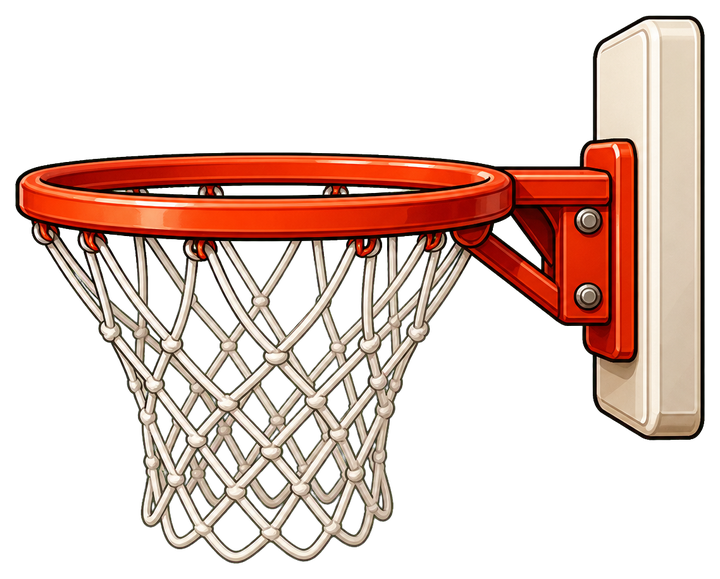
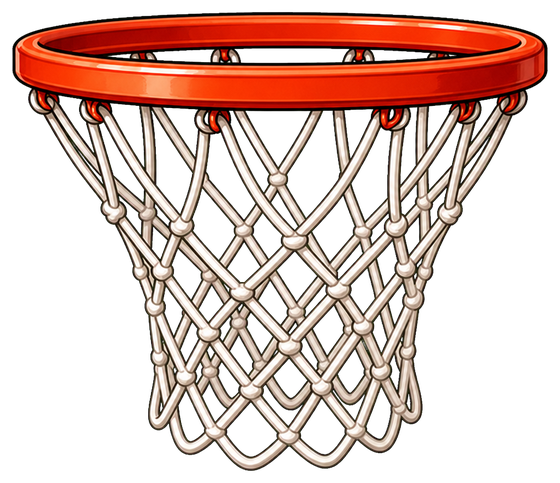
Polish Hoop Flight scoring

diff --git a/src/games/runtime/controllers.ts b/src/games/runtime/controllers.ts
@@ -53,7 +53,8 @@ abstract class BaseController implements GameController {
   }
 }
 
-type Hoop = { x: number; y: number; passed: boolean; pulse: number }
+type Hoop = { x: number; y: number; passed: boolean; pulse: number; netSwing?: number; netVelocity?: number }
+type HoopScoreEffect = { x: number; y: number; life: number; label: string; clean: boolean; streak: number }
 
 class HoopFlightController extends BaseController {
   private ball = { x: 110, y: 400, vx: 0, vy: 0, r: 20, rotation: 0, kick: 0, collisionCooldown: 0 }
@@ -61,11 +62,15 @@ class HoopFlightController extends BaseController {
   private speed = 138
   private autoClock = 0
   private readonly hoopImage: HTMLImageElement
+  private cleanStreak = 0
+  private scoreEffects: HoopScoreEffect[] = []
+  private scoreFlash = 0
+  private fireBurst = 0
 
   reset() {
     this.ball = { x: this.w * .27, y: this.h * .48, vx: 0, vy: 50, r: 20, rotation: -.15, kick: 0, collisionCooldown: 0 }
-    this.speed = 138; this.autoClock = 0
-    this.hoops = [0, 1, 2].map((i) => ({ x: this.w * .86 + i * 255, y: random(this.h * .3, this.h * .67), passed: false, pulse: 0 }))
+    this.speed = 138; this.autoClock = 0; this.cleanStreak = 0; this.scoreEffects = []; this.scoreFlash = 0; this.fireBurst = 0
+    this.hoops = [0, 1, 2].map((i) => ({ x: this.w * .86 + i * 255, y: random(this.h * .3, this.h * .67), passed: false, pulse: 0, netSwing: 0, netVelocity: 0 }))
   }
   constructor(theme: GameTheme, options: ControllerOptions) {
     super(theme, options)
@@ -95,26 +100,42 @@ class HoopFlightController extends BaseController {
     this.ball.y += this.ball.vy * dt
     this.ball.kick = Math.max(0, this.ball.kick - dt * 7.5)
     this.ball.collisionCooldown = Math.max(0, this.ball.collisionCooldown - dt)
+    this.scoreFlash = Math.max(0, this.scoreFlash - dt * 2.8)
+    this.fireBurst = Math.max(0, this.fireBurst - dt * 1.45)
+    this.scoreEffects.forEach((effect) => { effect.life -= dt; effect.x -= this.speed * dt })
+    this.scoreEffects = this.scoreEffects.filter((effect) => effect.life > 0)
     this.ball.rotation += dt * (2.4 + Math.abs(this.ball.vy) * .002)
     this.speed = Math.min(235, 138 + this.elapsed * 1.65)
     for (const hoop of this.hoops) {
       hoop.x -= this.speed * dt; hoop.pulse = Math.max(0, hoop.pulse - dt)
+      hoop.netVelocity = (hoop.netVelocity ?? 0) - (hoop.netSwing ?? 0) * 48 * dt
+      hoop.netVelocity *= Math.pow(.018, dt)
+      hoop.netSwing = (hoop.netSwing ?? 0) + hoop.netVelocity * dt
       const metrics = this.getHoopMetrics(hoop)
       this.collideWithHoop(metrics)
       const insideOpening = Math.abs(this.ball.x - hoop.x) < metrics.rimHalf - this.ball.r * .42
       if (!hoop.passed && insideOpening && previousY < hoop.y - 3 && this.ball.y >= hoop.y + 9 && this.ball.vy > 0) {
         hoop.passed = true; hoop.pulse = 1
         const clean = Math.abs(this.ball.x - hoop.x) < metrics.rimHalf * .42
-        this.addScore(clean ? (this.score > 1 ? 2 : 1) : 1)
+        this.cleanStreak = clean ? this.cleanStreak + 1 : 0
+        const points = clean ? (this.cleanStreak >= 3 ? 3 : this.cleanStreak === 2 ? 2 : 1) : 1
+        const label = clean ? (this.cleanStreak >= 3 ? `FIRE ×${this.cleanStreak}` : this.cleanStreak === 2 ? 'PERFECT ×2' : 'CLEAN!') : 'SWISH!'
+        this.setScore(this.score + points)
+        this.options.onImpact(clean ? 'perfect' : 'score')
+        hoop.netVelocity = clamp((this.ball.x - hoop.x) * 4.5 + 105, -150, 150)
+        this.scoreEffects.push({ x: hoop.x, y: hoop.y, life: 1, label, clean, streak: this.cleanStreak })
+        this.scoreFlash = clean ? .72 : .38
+        if (this.cleanStreak >= 3) this.fireBurst = 1
       } else if (!hoop.passed && hoop.x + metrics.rimHalf < this.ball.x - this.ball.r) {
         hoop.passed = true
+        this.cleanStreak = 0
       }
       if (insideOpening && this.ball.y > hoop.y + 5 && this.ball.y < hoop.y + metrics.height * .68) {
         this.ball.vx *= Math.pow(.55, dt)
       }
     }
     const last = this.hoops[this.hoops.length - 1]
-    if (last.x < this.w - 180) this.hoops.push({ x: last.x + random(220, 295), y: random(this.h * .25, this.h * .68), passed: false, pulse: 0 })
+    if (last.x < this.w - 180) this.hoops.push({ x: last.x + random(220, 295), y: random(this.h * .25, this.h * .68), passed: false, pulse: 0, netSwing: 0, netVelocity: 0 })
     this.hoops = this.hoops.filter((hoop) => hoop.x > -100)
     if (this.ball.y > this.h - 75 || this.ball.y < 42 || this.ball.x < -45) this.finish()
   }
@@ -127,8 +148,11 @@ class HoopFlightController extends BaseController {
     ctx.fillStyle = '#f2bd3f'; ctx.fillRect(0, this.h - 61, this.w, 61)
     ctx.fillStyle = 'rgba(82,72,54,.3)'; ctx.font = `900 ${Math.min(88, this.w * .2)}px system-ui`; ctx.textAlign = 'center'; ctx.textBaseline = 'middle'; ctx.fillText(String(this.score), this.w * .55, this.h * .52)
     for (const hoop of this.hoops) this.drawHoopLayer(ctx, hoop, false)
-    ctx.save(); ctx.translate(this.ball.x, this.ball.y); ctx.scale(1 + this.ball.kick * .16, 1 - this.ball.kick * .1); drawBasketball(ctx, 0, 0, this.ball.r, this.ball.rotation, this.score >= 4); ctx.restore()
+    ctx.save(); ctx.translate(this.ball.x, this.ball.y); ctx.scale(1 + this.ball.kick * .16, 1 - this.ball.kick * .1); drawBasketball(ctx, 0, 0, this.ball.r, this.ball.rotation, this.cleanStreak >= 3); ctx.restore()
     for (const hoop of this.hoops) this.drawHoopLayer(ctx, hoop, true)
+    this.drawScoreEffects(ctx)
+    if (this.fireBurst > 0) { ctx.strokeStyle = `rgba(255,75,25,${this.fireBurst * .7})`; ctx.lineWidth = 8 + this.fireBurst * 7; ctx.shadowColor = '#ff6a24'; ctx.shadowBlur = 28; ctx.strokeRect(4, 88, this.w - 8, this.h - 164); ctx.shadowBlur = 0 }
+    if (this.scoreFlash > 0) { ctx.fillStyle = `rgba(255,248,170,${this.scoreFlash * .16})`; ctx.fillRect(0, 0, this.w, this.h) }
     drawGameLabel(ctx, 'TAP TO BOUNCE', `${Math.floor(this.elapsed * 10)}m`, this.w, this.h)
   }
   private drawPaperWall(ctx: CanvasRenderingContext2D) {
@@ -147,21 +171,14 @@ class HoopFlightController extends BaseController {
     ctx.restore()
   }
   private getHoopMetrics(hoop: Hoop) {
-    const width = Math.min(194, this.w * .48)
-    const height = width * (579 / 720)
-    const left = hoop.x - width * .365
-    const top = hoop.y - height * .345
-    return { hoop, width, height, left, top, rimHalf: width * .33, boardLeft: left + width * .79, boardRight: left + width * .96, boardTop: top + height * .02, boardBottom: top + height * .78 }
+    const width = Math.min(138, this.w * .35)
+    const height = width * (483 / 560)
+    const left = hoop.x - width * .5
+    const top = hoop.y - height * .135
+    return { hoop, width, height, left, top, rimHalf: width * .43 }
   }
   private collideWithHoop(metrics: ReturnType<HoopFlightController['getHoopMetrics']>) {
     if (this.ball.collisionCooldown > 0) return
-    const boardHit = this.ball.x + this.ball.r > metrics.boardLeft && this.ball.x - this.ball.r < metrics.boardRight && this.ball.y + this.ball.r > metrics.boardTop && this.ball.y - this.ball.r < metrics.boardBottom
-    if (boardHit) {
-      this.ball.x = metrics.boardLeft - this.ball.r - 1
-      this.ball.vx = -Math.max(245, Math.abs(this.ball.vx) * .72 + 120)
-      this.ball.vy *= .72
-      this.registerHoopImpact(); return
-    }
     const posts = [metrics.hoop.x - metrics.rimHalf, metrics.hoop.x + metrics.rimHalf]
     for (const postX of posts) {
       const dx = this.ball.x - postX, dy = this.ball.y - metrics.hoop.y
@@ -191,13 +208,31 @@ class HoopFlightController extends BaseController {
     ctx.save()
     if (hoop.pulse > 0) { ctx.shadowColor = '#fff27b'; ctx.shadowBlur = 34 * hoop.pulse }
     if (!foreground) {
-      ctx.drawImage(this.hoopImage, left, top, width, height)
+      const sourceHeight = this.hoopImage.naturalHeight * .24
+      ctx.drawImage(this.hoopImage, 0, 0, this.hoopImage.naturalWidth, sourceHeight, left, top, width, height * .24)
     } else {
-      const sourceY = this.hoopImage.naturalHeight * .31
-      const sourceHeight = this.hoopImage.naturalHeight - sourceY
-      ctx.drawImage(this.hoopImage, 0, sourceY, this.hoopImage.naturalWidth, sourceHeight, left, top + height * .31, width, height * .69)
+      const rimSourceY = this.hoopImage.naturalHeight * .105
+      const netSourceY = this.hoopImage.naturalHeight * .22
+      const rimSourceHeight = netSourceY - rimSourceY
+      ctx.drawImage(this.hoopImage, 0, rimSourceY, this.hoopImage.naturalWidth, rimSourceHeight, left, top + height * .105, width, height * .115)
+      ctx.translate(hoop.x, hoop.y)
+      ctx.transform(1, 0, (hoop.netSwing ?? 0) / Math.max(1, height), 1, 0, 0)
+      ctx.translate(-hoop.x, -hoop.y)
+      ctx.drawImage(this.hoopImage, 0, netSourceY, this.hoopImage.naturalWidth, this.hoopImage.naturalHeight - netSourceY, left, top + height * .22, width, height * .78)
     }
     ctx.restore()
+  }
+  private drawScoreEffects(ctx: CanvasRenderingContext2D) {
+    for (const effect of this.scoreEffects) {
+      const progress = 1 - effect.life, alpha = Math.min(1, effect.life * 2.5)
+      ctx.save(); ctx.translate(effect.x, effect.y - 28 - progress * 48)
+      const color = effect.streak >= 3 ? '#ff5b22' : effect.clean ? '#fff06a' : '#ffffff'
+      ctx.strokeStyle = color; ctx.globalAlpha = alpha * .55; ctx.lineWidth = 4 - progress * 2; ctx.beginPath(); ctx.arc(0, 28 + progress * 8, 28 + progress * 64, 0, Math.PI * 2); ctx.stroke()
+      ctx.globalAlpha = alpha; ctx.fillStyle = color; ctx.shadowColor = color; ctx.shadowBlur = effect.clean ? 22 : 10; ctx.textAlign = 'center'; ctx.textBaseline = 'middle'; ctx.font = `900 ${effect.streak >= 3 ? 25 : 21}px system-ui`; ctx.fillText(effect.label, 0, 0)
+      for (let i = 0; i < (effect.clean ? 12 : 7); i++) { const angle = i * 2.4 + effect.streak; const radius = 25 + progress * (42 + i * 2); ctx.fillStyle = i % 2 ? color : '#ef4934'; ctx.beginPath(); ctx.arc(Math.cos(angle) * radius, 28 + Math.sin(angle) * radius * .62, 2.5 + (i % 3), 0, Math.PI * 2); ctx.fill() }
+      if (effect.streak >= 3) { ctx.globalAlpha = alpha * .5; ctx.strokeStyle = '#ff4a20'; ctx.lineWidth = 7; for (let i = 0; i < 5; i++) { const x = (i - 2) * 18; ctx.beginPath(); ctx.moveTo(x, 52); ctx.quadraticCurveTo(x + 12, 25 - i * 3, x + 4, 8); ctx.stroke() } }
+      ctx.restore()
+    }
   }
 }
 

diff --git a/src/tests/hoopFlightPhysics.test.ts b/src/tests/hoopFlightPhysics.test.ts
@@ -6,6 +6,8 @@ type InternalHoopFlight = GameController & {
   ball: { x: number; y: number; vx: number; vy: number; r: number; collisionCooldown: number }
   hoops: Array<{ x: number; y: number; passed: boolean; pulse: number }>
   speed: number
+  cleanStreak: number
+  scoreEffects: Array<{ label: string; streak: number }>
 }
 
 const makeController = () => {
@@ -21,7 +23,7 @@ describe('Hoop Flight physics', () => {
   it('pushes the ball backward when it strikes the rim', () => {
     const { controller } = makeController()
     const hoop = { x: 275, y: 370, passed: false, pulse: 0 }
-    const rimHalf = 194 * .33
+    const rimHalf = 138 * .43
     controller.hoops = [hoop]
     controller.ball.x = hoop.x - rimHalf - controller.ball.r + 3
     controller.ball.y = hoop.y
@@ -48,5 +50,22 @@ describe('Hoop Flight physics', () => {
     expect(controller.getScore()).toBe(1)
     expect(onScore).toHaveBeenCalledWith(1)
     expect(hoop.passed).toBe(true)
+  })
+
+  it('escalates consecutive clean shots into combo effects', () => {
+    const { controller } = makeController()
+    for (let shot = 0; shot < 3; shot++) {
+      const hoop = { x: 275, y: 370, passed: false, pulse: 0 }
+      controller.hoops = [hoop]
+      controller.ball.x = hoop.x
+      controller.ball.y = hoop.y - 10
+      controller.ball.vx = 0
+      controller.ball.vy = 700
+      controller.update(.03)
+    }
+
+    expect(controller.cleanStreak).toBe(3)
+    expect(controller.getScore()).toBe(6)
+    expect(controller.scoreEffects.at(-1)?.label).toBe('FIRE ×3')
   })
 })